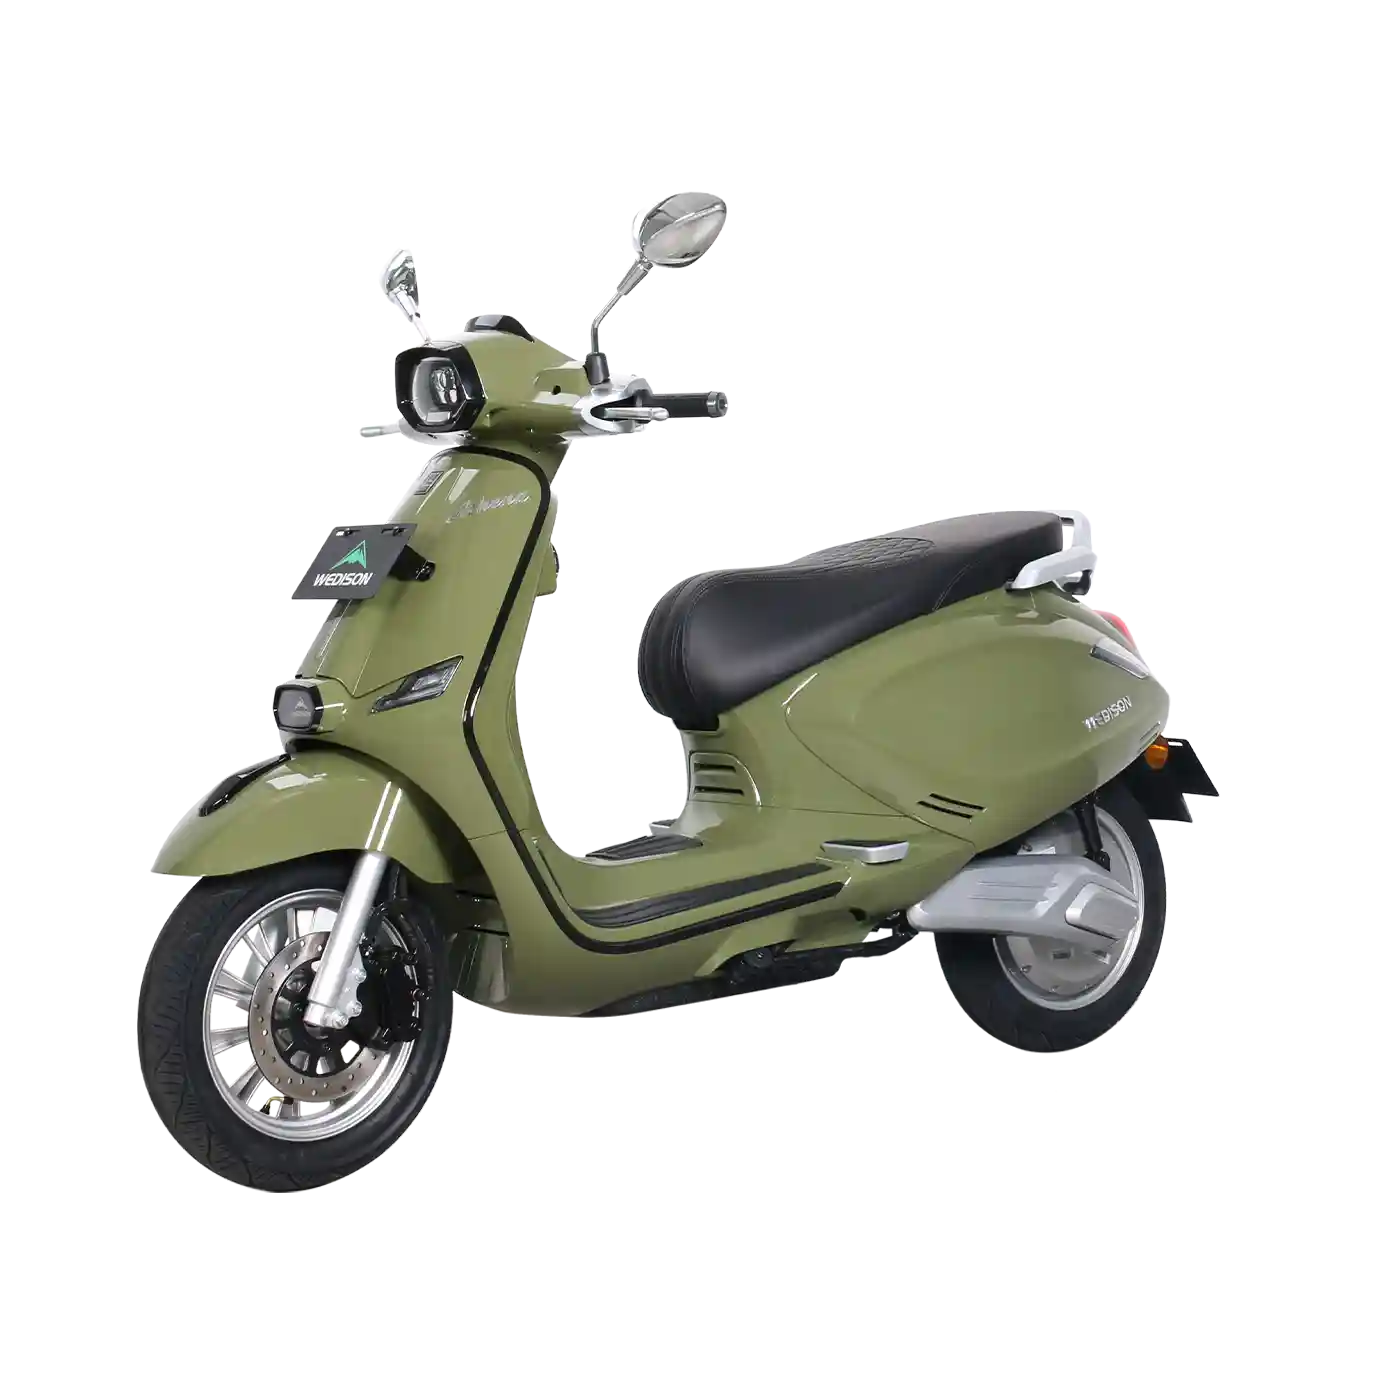
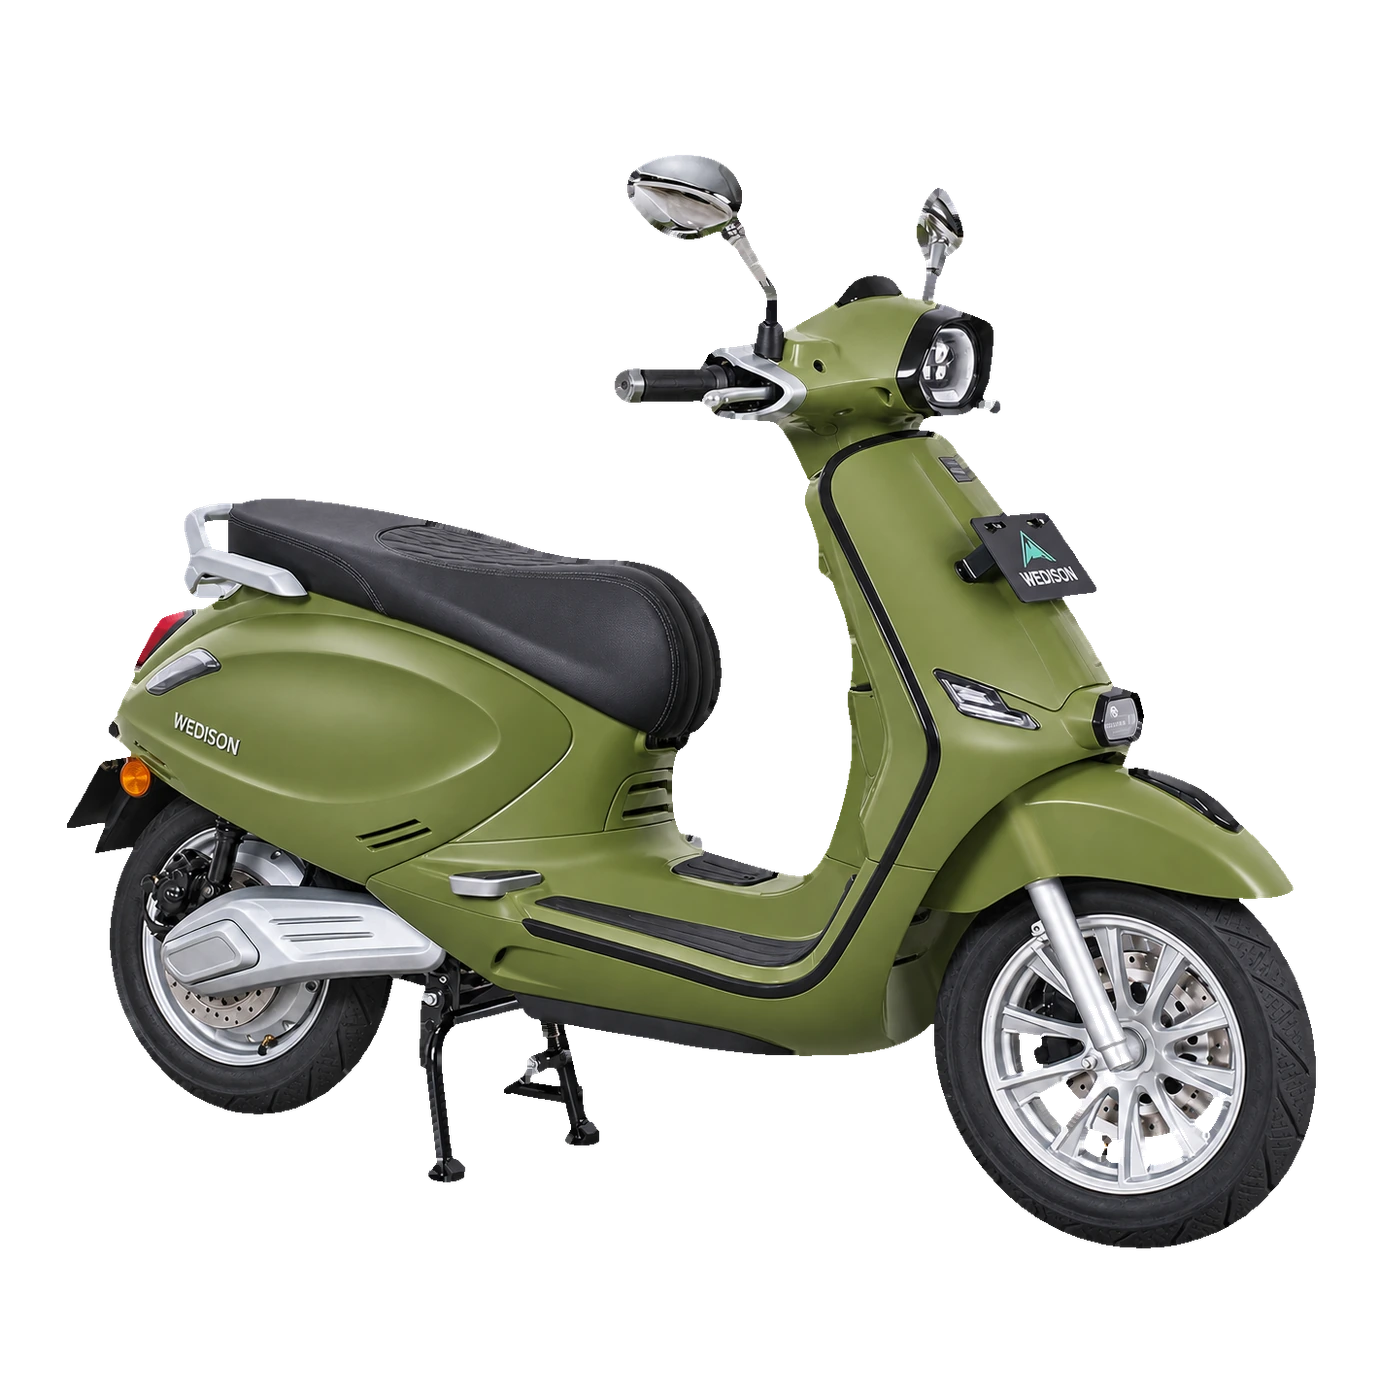
fix: restore Athena product images and replace defective cutouts

diff --git a/src/data/media.ts b/src/data/media.ts
@@ -64,7 +64,7 @@ export const media = {
   "fleet-victory-main": { kind: "image", src: "/media/fleet/victory/catalog.webp", alt: "Wedison Victory electric motorcycle available for rent through Werigo in Bali, main product photo", width: 760, height: 720, available: true },
   "fleet-victory-side": { kind: "image", src: "/media/fleet/victory/side.jpg", alt: "Side view of the Wedison Victory", width: 1600, height: 1200, available: false },
   "fleet-victory-detail": { kind: "image", src: "/media/fleet/victory/detail.jpg", alt: "Detail view of the Wedison Victory", width: 1600, height: 1200, available: false },
-  "fleet-athena-main": { kind: "image", src: "/media/fleet/athena/catalog.webp", alt: "Wedison Athena electric motorcycle available for rent through Werigo in Bali, main product photo", width: 760, height: 639, available: true },
+  "fleet-athena-main": { kind: "image", src: "/media/fleet/athena/catalog-clean.webp", alt: "Wedison Athena electric motorcycle available for rent through Werigo in Bali, main product photo", width: 760, height: 639, available: true },
   "fleet-athena-side": { kind: "image", src: "/media/fleet/athena/side.jpg", alt: "Side view of the Wedison Athena", width: 1600, height: 1200, available: false },
   "fleet-athena-detail": { kind: "image", src: "/media/fleet/athena/detail.jpg", alt: "Detail view of the Wedison Athena", width: 1600, height: 1200, available: false },
   "fleet-edpower-main": { kind: "image", src: "/media/fleet/edpower/catalog.webp", alt: "Wedison EdPower electric motorcycle available for rent through Werigo in Bali, main product photo", width: 760, height: 639, available: true },
@@ -157,8 +157,8 @@ export const modelColors: Record<string, ColorVariant[]> = {
   athena: [
     {
       name: "Green",
-      image: "/media/fleet/athena/colors/green.webp",
-      thumb: "/media/fleet/athena/colors/green-thumb.webp",
+      image: "/media/fleet/athena/colors/green-clean.webp",
+      thumb: "/media/fleet/athena/colors/green-thumb-clean.webp",
       alt: "Green Wedison Athena electric motorcycle available for rent through Werigo in Bali",
       width: 1920,
       height: 706,

diff --git a/src/ops/lib/fleet-colors.ts b/src/ops/lib/fleet-colors.ts
@@ -4,7 +4,7 @@ const aliases:Record<string,string>={merah:'red',putih:'white',hitam:'black',hij
 const defaults:Record<string,string>={edpower:'red-glossy',athena:'white-glossy',victory:'silver-glossy',bees:'grey-glossy'};
 export function fleetColorImage(model:string,color?:string,catalog=false){
  const choices=FLEET_COLORS[model];if(!choices)return null;let key=String(color||'').trim().toLowerCase().replace(/\s+/g,'-');
- if(!key&&catalog)key=defaults[model];if(choices.includes(key))return '/ops-assets/fleet/colors/'+model+'-'+key+'.webp';
+ if(!key&&catalog)key=defaults[model];if(choices.includes(key))return '/ops-assets/fleet/colors/'+model+'-'+key+(model==='athena'?'-clean':'')+'.webp';
  const finish=key.endsWith('-matte')?'matte':'glossy';key=key.replace(/-(matte|glossy)$/,'');key=aliases[key]||key;if(model==='victory'&&key==='grey')key='silver';key+='-'+finish;
- return choices.includes(key)?'/ops-assets/fleet/colors/'+model+'-'+key+'.webp':null;
+ return choices.includes(key)?'/ops-assets/fleet/colors/'+model+'-'+key+(model==='athena'?'-clean':'')+'.webp':null;
 }

diff --git a/src/data/saga.ts b/src/data/saga.ts
@@ -622,7 +622,7 @@ export const modelNames: Record<SagaModel, string> = {
 
 /** Clean official transparent cutouts for the dark saga surfaces. */
 const bikeImages: Record<SagaModel, { src: string; width: number; height: number }> = {
-  athena: { src: "/media/saga/bikes/athena.webp", width: 900, height: 758 },
+  athena: { src: "/media/saga/bikes/athena-clean.webp", width: 900, height: 758 },
   edpower: { src: "/media/saga/bikes/edpower.webp", width: 900, height: 757 },
   victory: { src: "/media/saga/bikes/victory.webp", width: 792, height: 751 },
   bees: { src: "/media/saga/bikes/bees.webp", width: 900, height: 823 },

diff --git a/src/components/marketing/WelcomeOffer.tsx b/src/components/marketing/WelcomeOffer.tsx
@@ -172,7 +172,7 @@ export function WelcomeOffer() {
                 </p>
               </div>
               <Image
-                src="/media/fleet/athena/cutout-green.webp"
+                src="/media/fleet/athena/cutout-green-clean.webp"
                 alt="Wedison Athena electric motorcycle in green"
                 width={1380}
                 height={1380}
